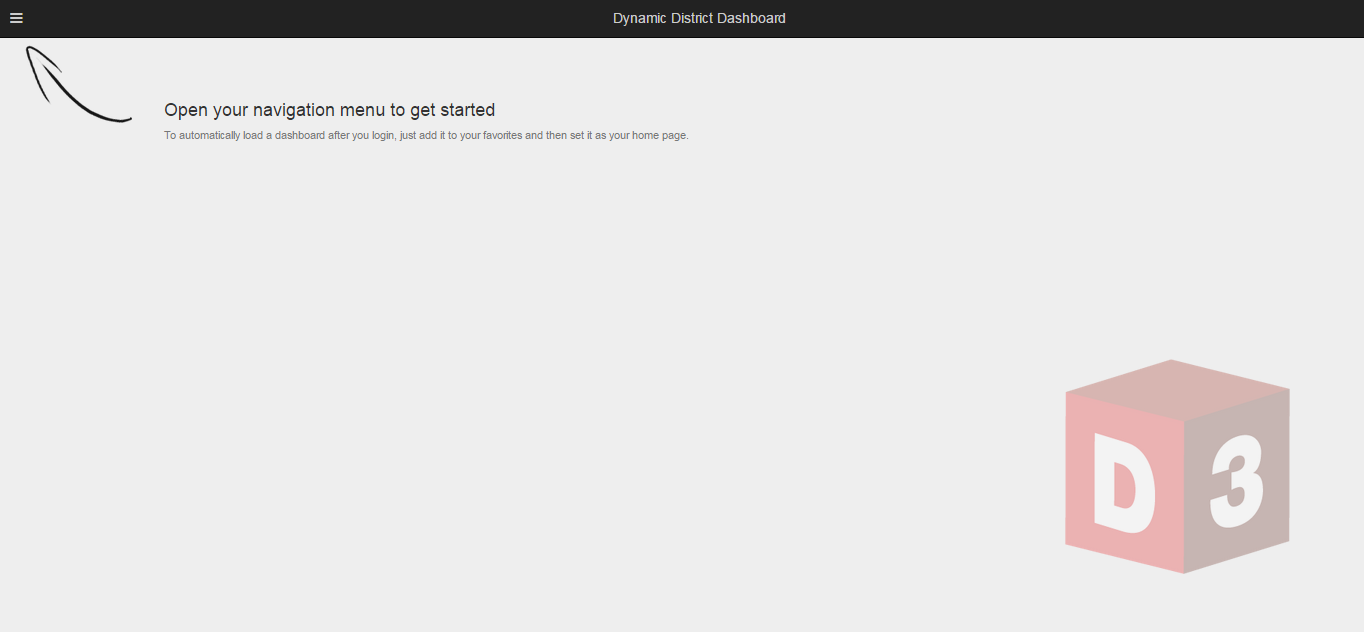
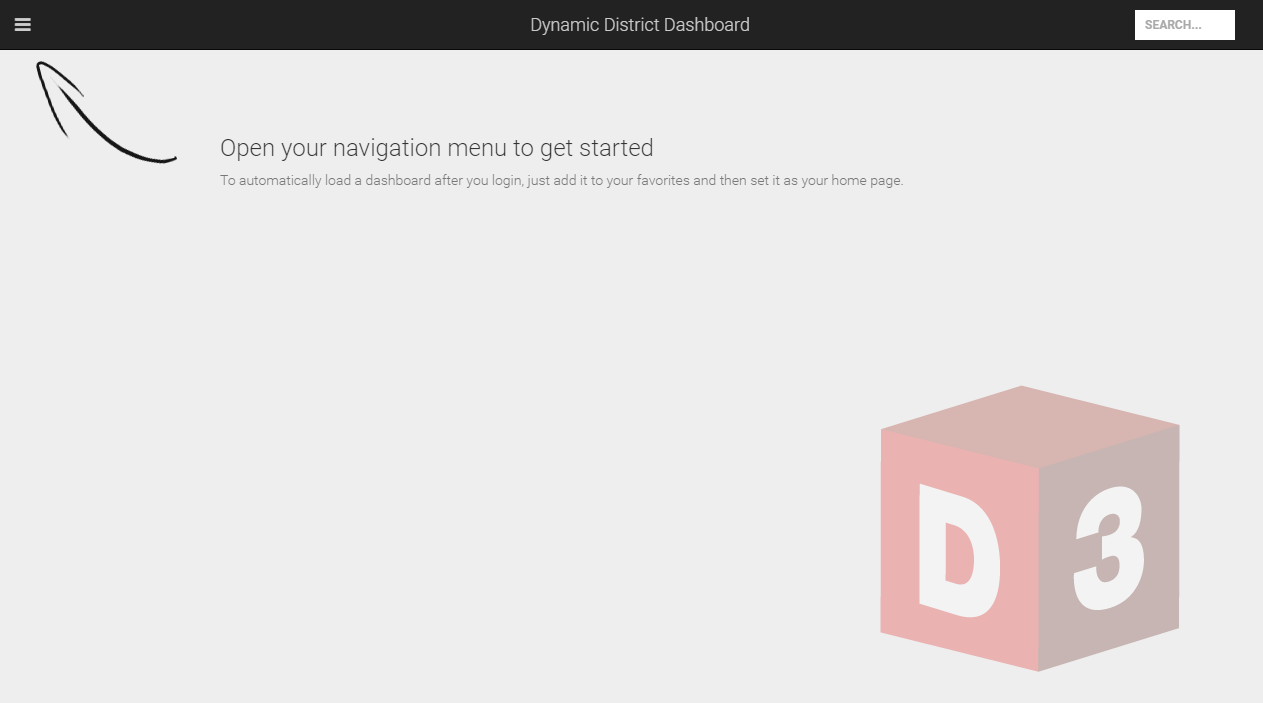
Describe UI elements in quickstart.

Changed region(s): [[0.6793, 0.5411, 0.9572, 0.962], [0.0, 0.0, 1.0, 0.2104], [0.0926, 0.1503, 0.7102, 0.2706]]

diff --git a/docs/quickstart/gettingstarted.rst b/docs/quickstart/gettingstarted.rst
@@ -9,11 +9,12 @@ D3 requires every user to log in. For users coming in via the district’s secur
 
    Login screen
 
+.. seealso:: 
+   :ref:`admin-credentials`
+
 Landing Page
 ------------
 
-Navigation Panel
-----------------
 Upon successful login, D3 displays your custom home page. If you have not yet designated a home page, you will see the initial landing page instead:
 
 .. figure:: img/initial-landing.png
@@ -22,3 +23,39 @@ Upon successful login, D3 displays your custom home page. If you have not yet de
 
 User Interface Elements
 --------------------------
+
+D3 has a standard toolbar at the top of the application from which all actions within the application can be initiated.
+
+From left-to-right, the purpose of each component in the toolbar is:
+
+1. Access the pull-out menu to open screens in D3.
+2. Go back to the previous screen (only visible when there is a previous screen to navigate back to).
+3. Title of the current screen.
+4. Quick search of all available D3 items (note: on mobile phones a magnifier glass icon is displayed instead of a text box).
+5. Expand the sidebar to perform actions and view details applicable to the current screen.
+
+.. figure:: img/ui-elements.png
+
+   Main elements of the user interface
+
+Number 6 in the image above identifies the main content area that displays the current item. In this example, we are looking at a dashboard.
+
+Navigating Around the App
+---------------------------
+
+.. warning::
+
+   This section hasn't been written yet.
+
+Using on Mobile Devices
+--------------------------
+
+D3 uses the "responsive web design" approach for building the user interface to provide an optimal viewing and interaction experience across a wide range of devices from desktop computers, to tablets and mobile phones.
+
+.. tip::
+
+   Did you know you can install D3 as an app on your favorite mobile device for easy access and a full screen experience? Just open D3 in your browser, then...
+
+   **iPhone & iPad**: Tap the share button, and choose "Add to Home Screen".
+
+   **Android**: Tap the menu button and tap "Add to homescreen".

diff --git a/README.md b/README.md
@@ -2,8 +2,7 @@
 
 View this documentation
 --------------------------
-http://d3-k-12-dynamics.readthedocs.io/
-
+http://docs.accessd3.com
 
 Contribute to this documentation
 -------------------------------------
@@ -13,11 +12,7 @@ All documentation files are written in a format called reStructuredText.
 
 Overview of reStructuredText syntax:
 
-https://github.com/ralsina/rst-cheatsheet/blob/master/rst-cheatsheet.rst
-
-More information:
-
- http://www.sphinx-doc.org/en/stable/rest.html
+http://www.sphinx-doc.org/en/stable/rest.html
 
 Setting up locally
 ---------------------
@@ -29,3 +24,9 @@ Instructions:
 2. Install Sphinx: `pip install sphinx sphinx-autobuild`
 3. in the docs folder of your cloned project: `sphinx-autobuild . _build/html`
 4. Browse to http://localhost:8000
+
+Taking screenshots
+-----------------------
+Always set your browser width to 1280px (and preferably use a height of 720px). This matches a 720P HD television, and it is the minimum resolution for dashboards to include more than one chart per row. To manage your browser width in Chrome, hit F12, then the "Toggle device mode" icon. Click edit in the devices dropdown to add a "720P" option if you don't already have it. Use this, and make sure your scaling is 100%.
+
+The easiest way to capture the content area of the browser in Chrome is to install the Awesome Screenshot extension.

diff --git a/docs/administration/index.rst b/docs/administration/index.rst
@@ -4,6 +4,11 @@ Resolving Data Load Issues
 Managing User Access
 =========================
 
+.. _admin-credentials:
+
+How are credentials recognized?
+--------------------------------
+
 Publishing Changes to the Library
 ==================================
 
